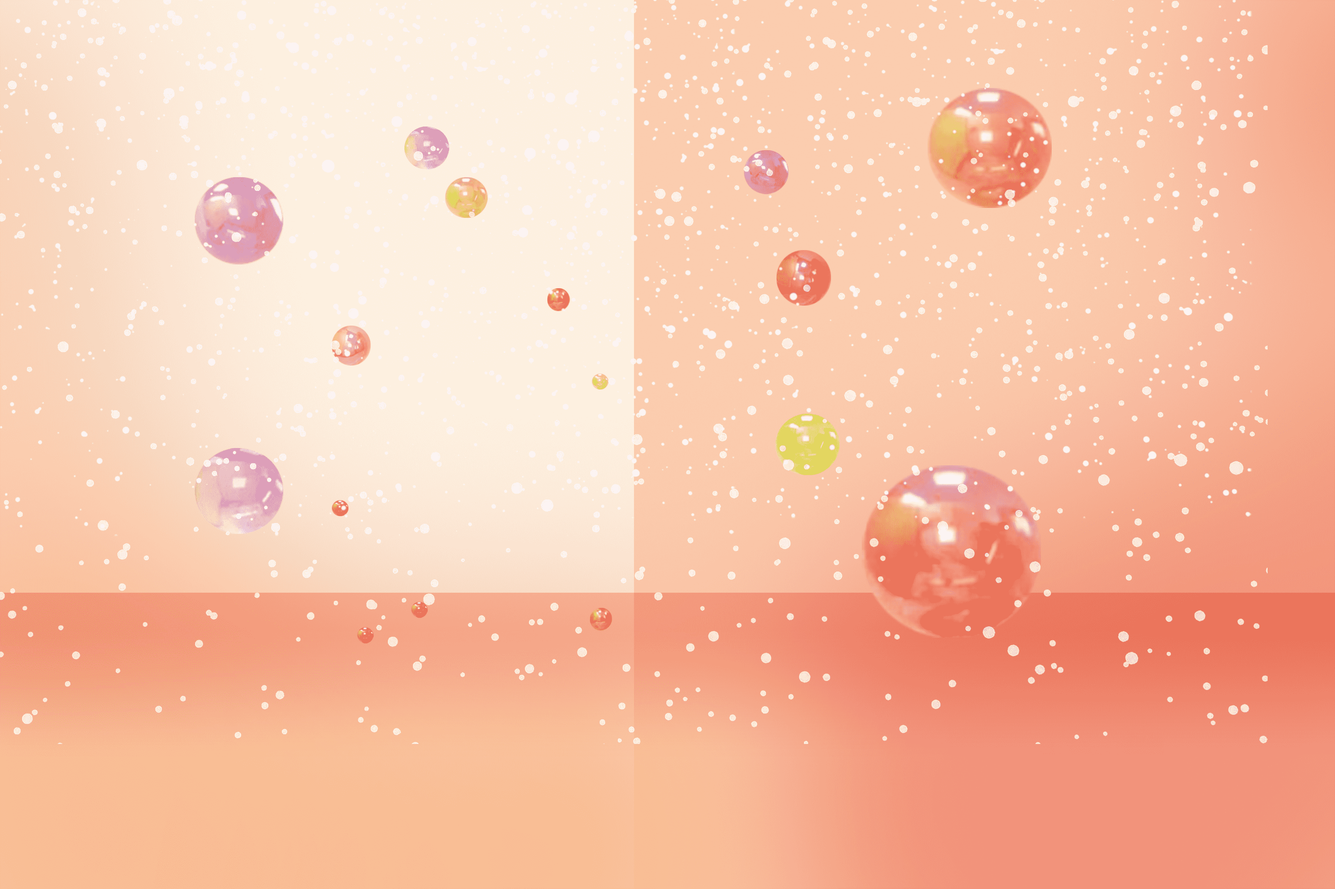
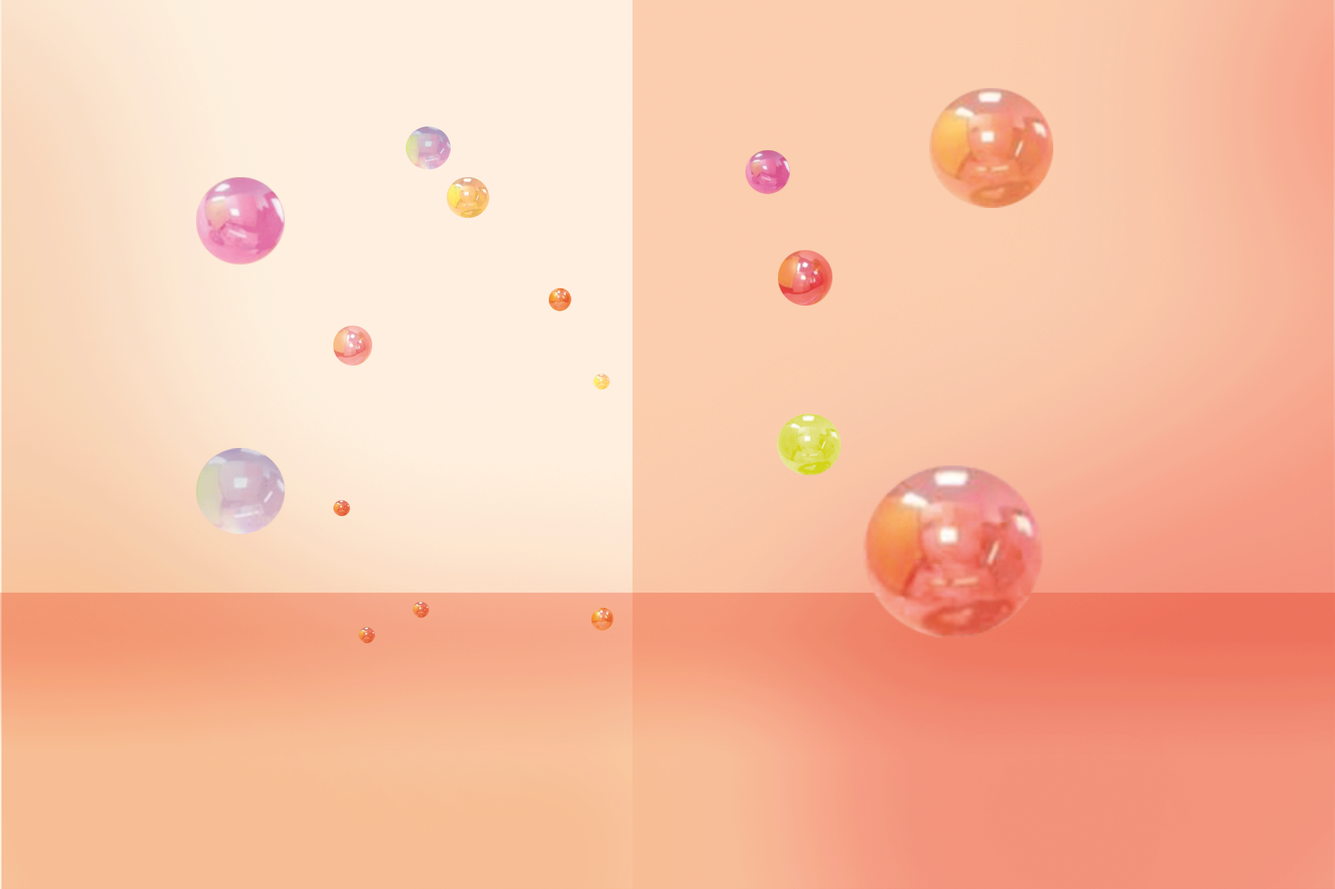
change images

diff --git a/resources/views/gifts.blade.php b/resources/views/gifts.blade.php
@@ -19,9 +19,6 @@
 
 </head>
 <body>
-<div id="snowflakeContainer">
-    <span class="snowflake"></span>
-</div>
 <div class="logo_img">
     <img class="logo" src="{{ asset('img/logo.png') }}">
 </div>
@@ -70,7 +67,7 @@
     <img src="{{ asset('img/polosa.png') }}">
 </div>
 <div class="congratulation">
-    <p>С новым 2023 <br>годом!</p>
+    <p>Время <br>удовольствий</p>
 </div>
 
 

diff --git a/resources/views/thanks.blade.php b/resources/views/thanks.blade.php
@@ -11,9 +11,6 @@
 
 </head>
 <body>
-<div id="snowflakeContainer">
-    <span class="snowflake"></span>
-</div>
 <div class="logo_img">
     <img class="logo" src="{{ asset('img/logo.png') }}">
 </div>
